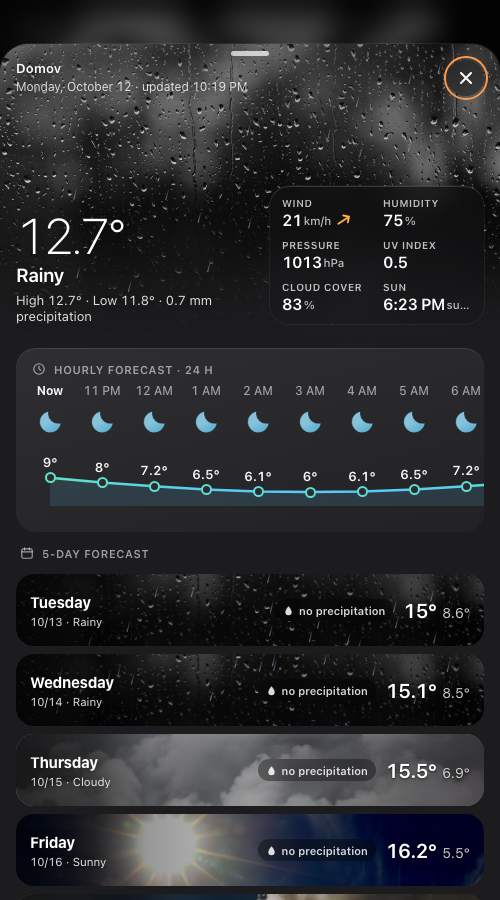
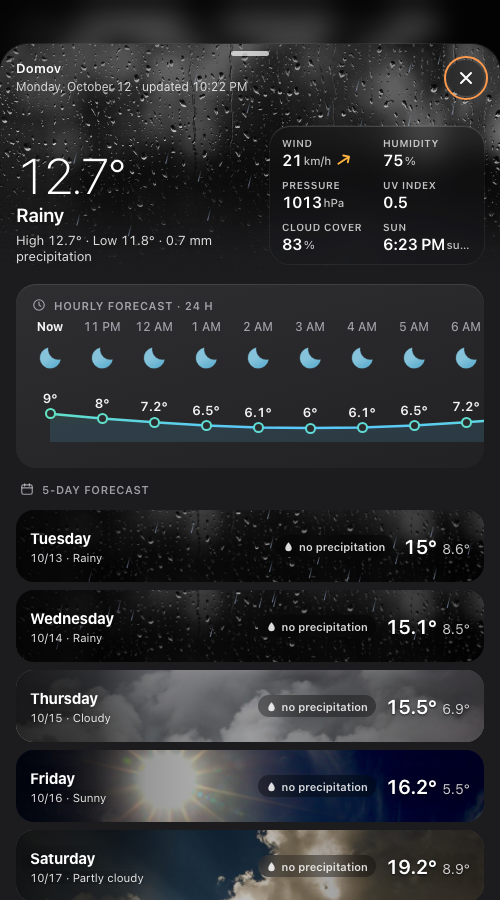
Phone detail: shorter hero, less space under the close button

diff --git a/dist/weather-bar-card.js b/dist/weather-bar-card.js
@@ -865,8 +865,8 @@ class WeatherBarCard extends (globalThis.HTMLElement ?? class {}) {
     const vars = {
       ...DETAIL_THEME[dark ? 'dark' : 'light'],
       '--d-pad': sheet ? '16px' : '24px', '--d-temp': sheet ? '50px' : '84px',
-      '--d-hero-h': dark ? (sheet ? '300px' : '260px') : (sheet ? '360px' : '330px'),
-      '--d-hero-pb': dark ? (sheet ? '20px' : '28px') : (sheet ? '112px' : '96px'),
+      '--d-hero-h': dark ? (sheet ? '236px' : '260px') : (sheet ? '310px' : '330px'),
+      '--d-hero-pb': dark ? (sheet ? '16px' : '28px') : (sheet ? '96px' : '96px'),
     };
     const fx = (condition, seed, compact) => (cfg.effects ? `<div class="fx">${particles(FX_FOR[condition] ?? {}, compact, seed)}</div>` : '');
 
